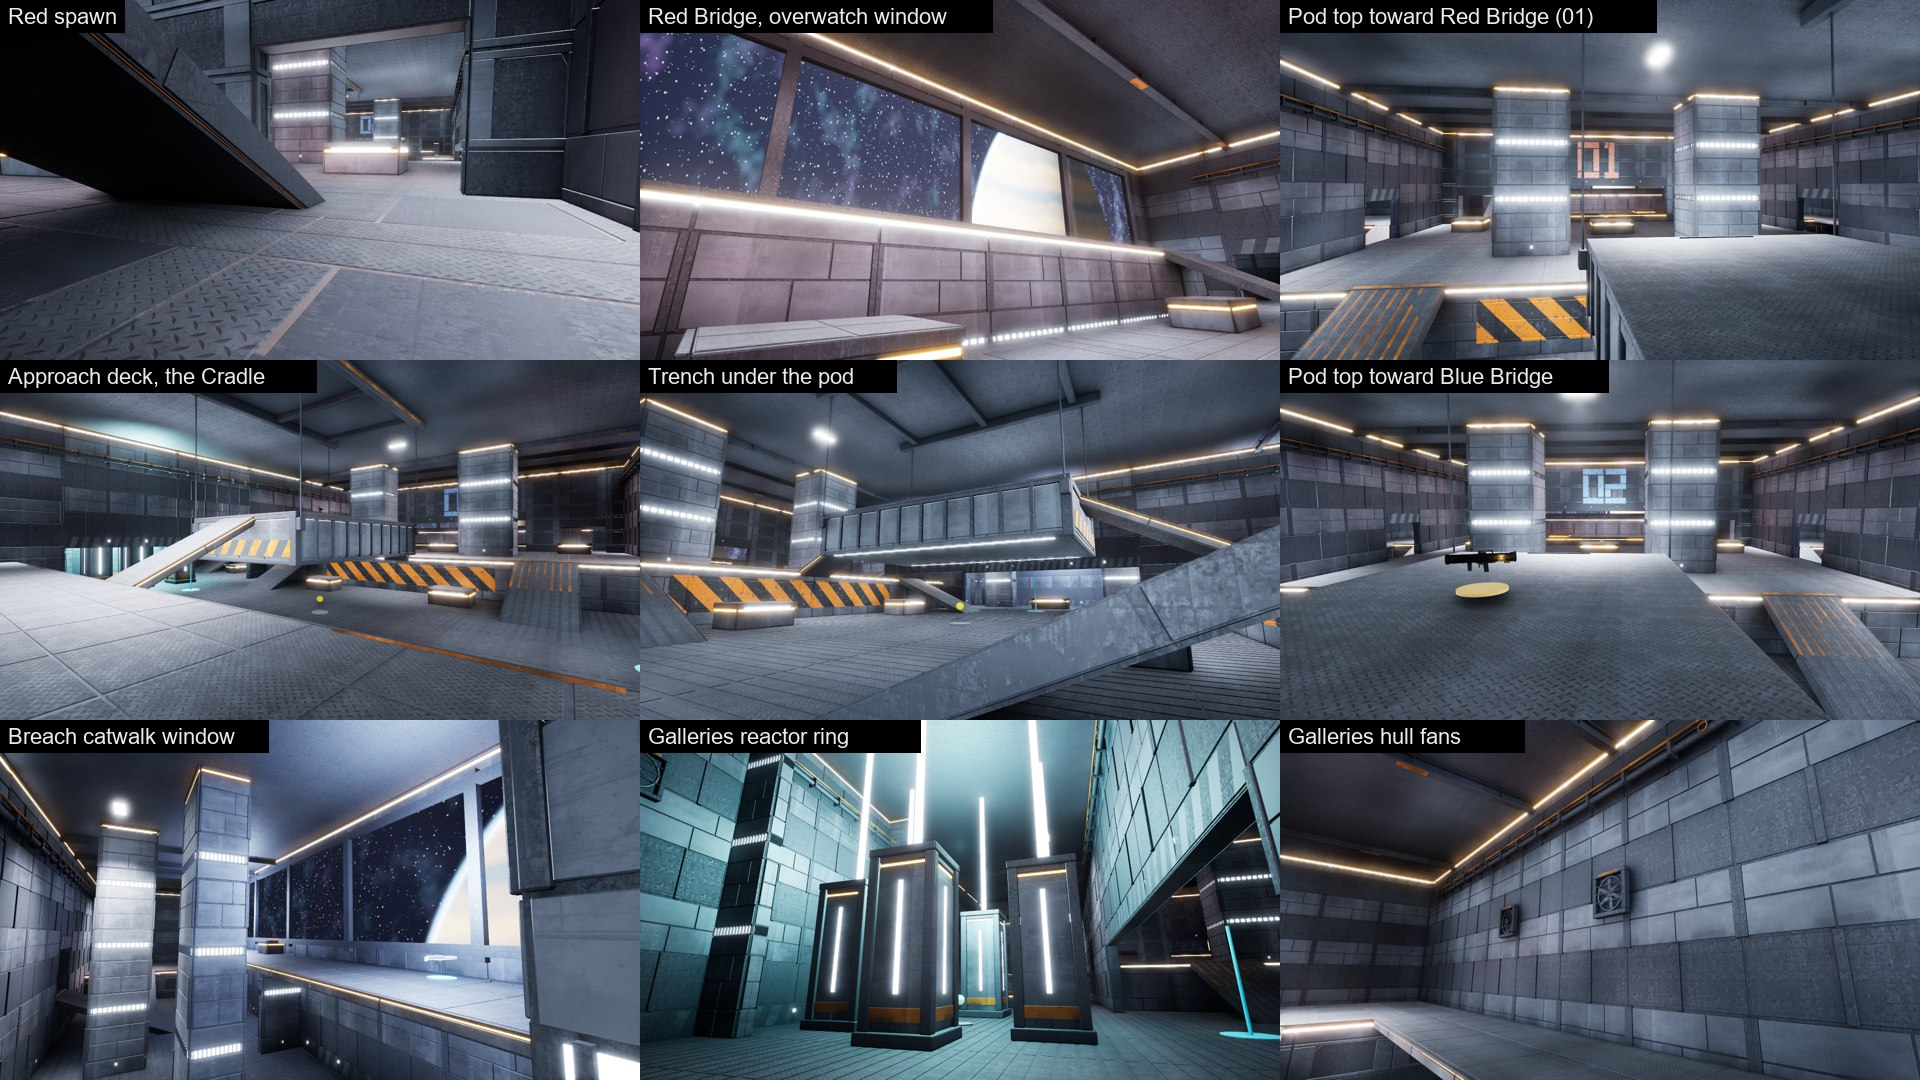
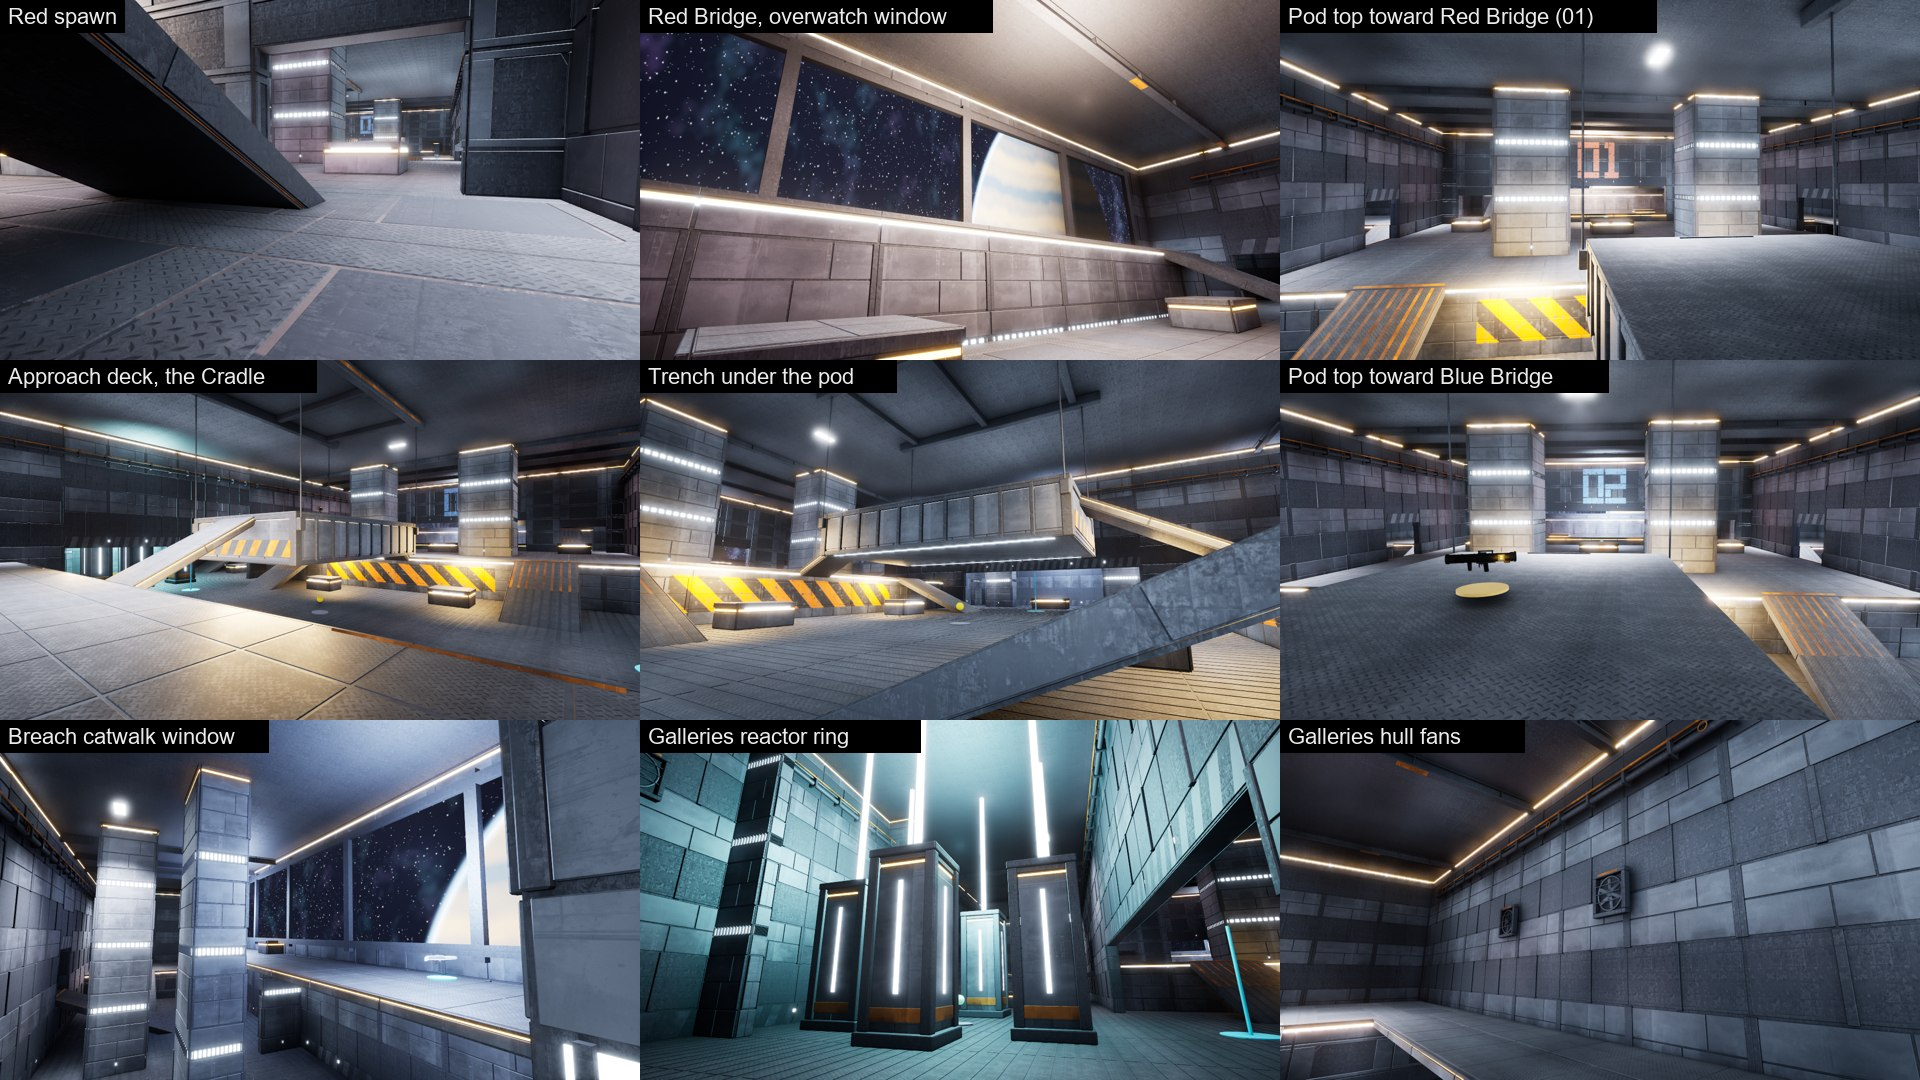
Keel: spawn-room and trench zone light, ambience levels rebalanced against the hum, tour refreshed
Team hint lights in the bridges (warm red, cool blue) and low amber work lamps in the trench. Fan and reactor loops
turned down so each sits 2-3 dB over the hum close up (offline check: Tools/check_keel_ambience_levels.py).
Gameplay 177/178 (known hands check); fixed-view Keel 167.3 / 171.3. Desktop released.

diff --git a/Tools/check_keel_ambience_levels.py b/Tools/check_keel_ambience_levels.py
@@ -1,0 +1,56 @@
+"""Offline replica of ShieldbreakAmbience's Hum, VentFan and ReactorDrone loops: peak and RMS after MakeLoop's
+normalisation and the AddLoop volume, in dBFS. Noise sequences differ from FRandomStream but the statistics match."""
+import numpy as np
+
+RATE = 24000
+rng = np.random.default_rng(1)
+
+
+def lowpass(x, hz):
+    c = 1 - np.exp(-2 * np.pi * max(hz, 1) / RATE)
+    y = np.empty_like(x); s = 0.0
+    for i, v in enumerate(x):
+        s += c * (v - s); y[i] = s
+    return y
+
+
+def make_loop(seconds, peak, raw):
+    n = int(round(seconds * RATE)); fade = RATE // 2
+    a = np.arange(fade) / fade
+    raw = raw.copy(); raw[:fade] = raw[:fade] * a + raw[n:n + fade] * (1 - a)
+    raw = raw[:n]
+    return raw / np.abs(raw).max() * peak
+
+
+def hum():
+    n = 8 * RATE + RATE // 2; t = np.arange(n) / RATE
+    wob = 0.85 + 0.15 * np.sin(2 * np.pi * 0.25 * t)
+    tone = np.sin(2 * np.pi * 55 * t) + 0.45 * np.sin(2 * np.pi * 110 * t) + 0.15 * np.sin(2 * np.pi * 165 * t)
+    return make_loop(8, 0.6, 0.5 * tone * wob + 1.6 * lowpass(rng.uniform(-1, 1, n), 260))
+
+
+def fan():
+    n = 4 * RATE + RATE // 2; t = np.arange(n) / RATE
+    w = rng.uniform(-1, 1, n)
+    rush = lowpass(w, 900) - 0.6 * lowpass(w, 150)
+    blades = 0.65 + 0.35 * np.sin(2 * np.pi * 3 * t)
+    whine = 0.12 * np.sin(2 * np.pi * 180 * t) + 0.05 * np.sin(2 * np.pi * 360 * t)
+    return make_loop(4, 0.7, 1.4 * rush * blades + whine)
+
+
+def drone():
+    n = 8 * RATE + RATE // 2; t = np.arange(n) / RATE
+    swell = 0.7 + 0.3 * np.sin(2 * np.pi * 0.25 * t)
+    tone = (np.sin(2 * np.pi * 41 * t) + 0.6 * np.sin(2 * np.pi * 82 * t) + 0.2 * np.sin(2 * np.pi * 123 * t)
+            + 0.08 * np.sin(2 * np.pi * 492 * t))
+    return make_loop(8, 0.7, (0.55 * tone + 1.2 * lowpass(rng.uniform(-1, 1, n), 120)) * swell)
+
+
+def db(v):
+    return 20 * np.log10(max(v, 1e-9))
+
+
+for name, wave, volume in (('hum (everywhere)', hum(), 0.22), ('fan (each, at 1.5 m)', fan(), 0.28),
+                           ('reactor drone (at 4 m)', drone(), 0.2)):
+    out = wave * volume
+    print(f'{name:26s} peak {db(np.abs(out).max()):6.1f} dBFS  rms {db(np.sqrt((out ** 2).mean())):6.1f} dBFS')

diff --git a/Source/Shieldbreak/Game/ShieldbreakArena.cpp b/Source/Shieldbreak/Game/ShieldbreakArena.cpp
@@ -951,7 +951,7 @@ void AShieldbreakArena::BuildMapArt()
 			AddInstanceComponent(Housings);
 		}
 		// Zone light: cold starlight spilling in from the Breach window and a cyan glow over the reactor ring, so the two
-		// flanks read differently at a glance (unshadowed, three points and one spot). -SBNoKeelZoneLights for comparisons.
+		// flanks read differently at a glance (unshadowed points). -SBNoKeelZoneLights for comparisons.
 		if (!FParse::Param(FCommandLine::Get(), TEXT("SBNoKeelZoneLights")))
 		{
 			auto AddZoneLight = [&](const FVector& At, const FLinearColor& Colour, float Candelas, float Radius)
@@ -974,6 +974,17 @@ void AShieldbreakArena::BuildMapArt()
 				AddZoneLight(FVector(X, Layout.HalfExtent.Y - 300.0, 1050.0), Starlight, 70.f, 1900.f);
 			}
 			AddZoneLight(FVector(0.0, -2800.0, 900.0), ReactorGlow, 170.f, 1700.f);
+			// Spawn rooms: a faint team hint in each bridge (warm on red, cool on blue). The trench: low amber work lamps
+			// on its walls, against the cold under-glow of the pod above.
+			AddZoneLight(FVector(-4500.0, 0.0, 1100.0), FLinearColor(1.f, 0.72f, 0.55f), 90.f, 1600.f);
+			AddZoneLight(FVector(4500.0, 0.0, 1100.0), FLinearColor(0.62f, 0.75f, 1.f), 90.f, 1600.f);
+			for (const double X : { -1150.0, 1150.0 })
+			{
+				for (const double Y : { -700.0, 700.0 })
+				{
+					AddZoneLight(FVector(X, Y, 420.0), FLinearColor(1.f, 0.62f, 0.28f), 22.f, 1100.f);
+				}
+			}
 		}
 		// Views out (Tools/create_keel_space.py: the space panorama, unlit, parallax), 30 cm proud of the hull in front
 		// of its cladding and split by heavy frame mullions; visual only. The Breach's long window over its catwalk (north

diff --git a/Source/Shieldbreak/Audio/ShieldbreakAmbience.cpp b/Source/Shieldbreak/Audio/ShieldbreakAmbience.cpp
@@ -332,18 +332,20 @@ void ShieldbreakAmbience::Start(AActor* Arena, FName MapId, bool bIndoor, const 
 		if (MapId == FName(TEXT("Keel")))
 		{
 			// Placed sources that match Keel's set pieces (ShieldbreakArena::BuildMapArt): the six Galleries hull fans
-			// and the reactor pylon ring round the Camo. Arena-local positions.
+			// and the reactor pylon ring round the Camo. Arena-local positions. Levels (offline replica of these loops):
+			// hum -28.8 dBFS RMS everywhere; a fan -27.0 and the drone -26.4 inside their inner radius, so each stands only
+			// 2-3 dB over the hum close up and never masks footsteps.
 			const FTransform& ToWorld = Arena->GetActorTransform();
 			USoundAttenuation* FanFalloff = Falloff(150.f, 1600.f);
 			const TSharedRef<FPCM> Fan = VentFan(static_cast<int32>(Seed) ^ 0xFA4);
 			for (const double X : { -3400.0, -2600.0, -1000.0, 1000.0, 2600.0, 3400.0 })
 			{
 				const FVector Location = ToWorld.TransformPosition(FVector(X, -3540.0, 850.0));
-				AddLoop(Arena, Fan, 0.35f, &Location, FanFalloff);
+				AddLoop(Arena, Fan, 0.28f, &Location, FanFalloff);
 				++Sources;
 			}
 			const FVector Reactor = ToWorld.TransformPosition(FVector(0.0, -2800.0, 300.0));
-			AddLoop(Arena, ReactorDrone(static_cast<int32>(Seed) ^ 0x2EAC), 0.45f, &Reactor, Falloff(400.f, 3200.f));
+			AddLoop(Arena, ReactorDrone(static_cast<int32>(Seed) ^ 0x2EAC), 0.2f, &Reactor, Falloff(400.f, 3200.f));
 			++Sources;
 		}
 	}

diff --git a/docs/COORDINATION.md b/docs/COORDINATION.md
@@ -1,3 +1,5 @@
+**Keel AAA pass 6 done, desktop released (Claude, desktop PC, 2026-11-14 12:20-12:45 local, branch `claude/project-thread-kwjmqj`).** Spawn-room and trench zone light, ambience levels rebalanced and checked offline (`Tools/check_keel_ambience_levels.py`), tour refreshed. Build PASS, gameplay **177/178** (known hands-through-guns only). Fixed-view Keel 167.3 / 171.3 (baseline 156.5). The Keel AAA thread is done for this session; the PR (base `claude/project-thread-ndksis`) still has to be opened from GitHub, and the Fab Mechanic Base still needs the Launcher.
+
 **Keel AAA pass 5 done, desktop released (Claude, desktop PC, 2026-11-14 11:30-12:05 local, branch `claude/project-thread-kwjmqj`).** Positional fan and reactor sounds (ShieldbreakAmbience, Keel only), cold Breach and cyan reactor zone lights, and a clean screenshot tour. Build PASS, gameplay **177/178** (known hands-through-guns only). Fixed-view Keel 170.2 / 172.9 / 173.3 (baseline 156.5). Tour `docs/playtests/2026-11-14_keel_aaa/keel_tour.jpg`; notes `docs/KEEL_AAA_PASS.md`. No audio listening test was possible here (shots are silent).
 
 **Keel AAA pass 4 done, desktop released (Claude, desktop PC, 2026-11-14 10:55-11:30 local, branch `claude/project-thread-kwjmqj`).** Reactor pylon pulse (`M_SB_KeelPulse`, `Tools/MakeKeelFX.bat`) and six turning hull fans in the Galleries (`SM_SB_Kit_Fan*`). Build PASS, gameplay **177/178** (known hands-through-guns only). Fixed-view Keel 170.1 / 184.6 with, 176.2 without. Notes `docs/KEEL_AAA_PASS.md`.

diff --git a/docs/KEEL_AAA_PASS.md b/docs/KEEL_AAA_PASS.md
@@ -74,6 +74,15 @@ shapes; professional free source material only, restyled; no paid tools; perform
 - **Screenshot tour:** `keel_tour.jpg`, nine player-eye views with the HUD off (`-SBShots -SBHeroShots -SBCleanShots`).
 - Self-test 177/178 (known hands check). Fixed-view Keel 170.2 / 172.9 / 173.3.
 
+## Done in pass 6 (same branch)
+
+- **Spawn and trench mood:** a faint team hint in each bridge (warm on red, cool on blue) and low amber work lamps on
+  the trench walls against the pod's cold under-glow. Ten unshadowed zone lights in all.
+- **Sound levels checked numerically** (`Tools/check_keel_ambience_levels.py`, an offline replica of the loops): hum
+  -28.8 dBFS RMS everywhere; after rebalancing, a fan -27.1 and the reactor drone -26.4 inside their inner radius, so
+  each stands only 2-3 dB over the hum close up (the drone was 9 dB over before).
+- Tour refreshed (`keel_tour.jpg`). Self-test 177/178 (known hands check). Fixed-view Keel 167.3 / 171.3.
+
 ## Performance (fixed-view Keel, 1280x720, no bots, single runs)
 
 Baseline 156.5 FPS. Materials 153.6 / 159.5; hazard 152.6; pod 158.9 / 172.2 / 185.4; final (scanned block faces) 181.8. The spread between identical
